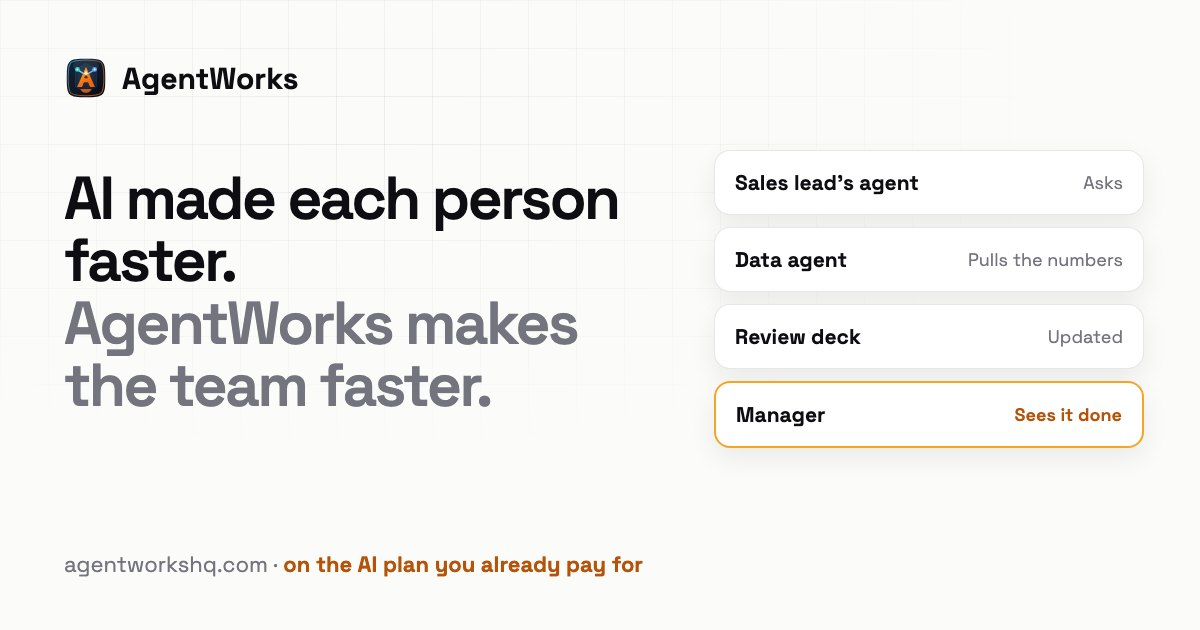
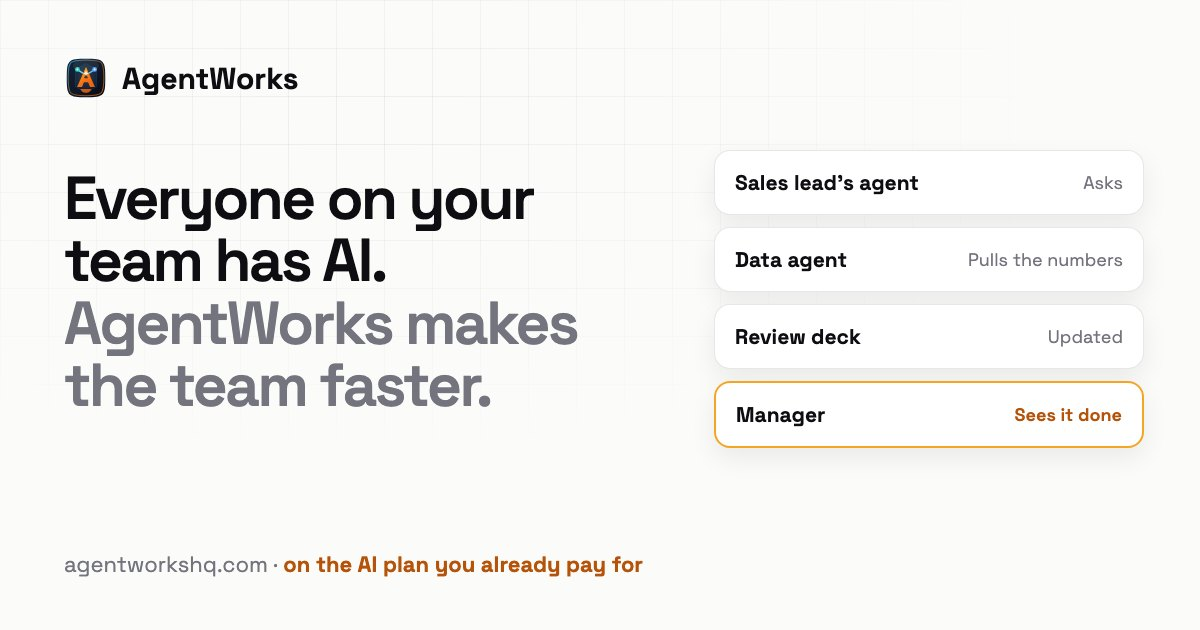
Homepage headline: Everyone on your team has AI
"AI made each person faster" is a claim readers can dispute; the new
first half states a plain fact and keeps "faster" for the team.
Updates the title, social image, problem heading and llms.txt to match.

Changed region(s): [[0.0308, 0.2714, 0.5242, 0.4524]]

diff --git a/index.html b/index.html
@@ -3,12 +3,12 @@
 <head>
   <meta charset="UTF-8">
   <meta name="viewport" content="width=device-width, initial-scale=1">
-  <title>AgentWorks - AI made each person faster. Make the team faster.</title>
+  <title>AgentWorks - Everyone on your team has AI. Make the team faster.</title>
   <meta name="description" content="Everyone's AI agents work together: anyone hands work to an agent, agents pass it on, and everyone sees where it stands. Keeps your tools; runs on your servers.">
   <meta name="theme-color" content="#fbfbf9">
   <meta name="color-scheme" content="light">
   <meta name="application-name" content="AgentWorks">
-  <meta property="og:title" content="AgentWorks - AI made each person faster. Make the team faster.">
+  <meta property="og:title" content="AgentWorks - Everyone on your team has AI. Make the team faster.">
   <meta property="og:description" content="Everyone's AI agents work together: anyone hands work to an agent, agents pass it on, and everyone sees where it stands. Keeps your tools; runs on your servers.">
   <meta property="og:url" content="https://agentworkshq.com/">
   <meta property="og:site_name" content="AgentWorks">
@@ -18,7 +18,7 @@
   <meta property="og:image:width" content="1200">
   <meta property="og:image:height" content="630">
   <meta name="twitter:card" content="summary_large_image">
-  <meta name="twitter:title" content="AgentWorks - AI made each person faster. Make the team faster.">
+  <meta name="twitter:title" content="AgentWorks - Everyone on your team has AI. Make the team faster.">
   <meta name="twitter:description" content="Everyone's AI agents work together: anyone hands work to an agent, agents pass it on, and everyone sees where it stands. Keeps your tools; runs on your servers.">
   <meta name="twitter:image" content="https://agentworkshq.com/assets/og/agentworks-home-og.jpg">
   <meta name="twitter:creator" content="@manish_iitg">
@@ -203,7 +203,7 @@
       <div class="hero-grid-bg" aria-hidden="true"></div>
       <div class="wrap">
         <p class="kicker">Works with the tools you already use</p>
-        <h1>AI made each person faster. <span class="dim">AgentWorks makes the team faster.</span></h1>
+        <h1>Everyone on your team has AI. <span class="dim">AgentWorks makes the team faster.</span></h1>
         <p class="lede">Everyone&rsquo;s AI agents work together: anyone can hand work to an agent, agents pass it on, and everyone sees where it stands.</p>
         <div class="hero-actions">
           <a class="btn btn-amber" href="https://calendar.google.com/calendar/appointments/schedules/AcZssZ1IrGuhEQLUL5dEFGm4OWRJvz5M0KOaizd2SH2-oadqBESndvBRGq8s1MF41uOI931Xu1NrhfZu" target="_blank" rel="noreferrer">Book a call</a>
@@ -287,7 +287,7 @@
       <div class="wrap">
         <div class="section-head reveal">
           <p class="kicker">The problem</p>
-          <h2>Everyone has their own AI. <span class="dim">The work between people still moves by hand.</span></h2>
+          <h2>Each person&rsquo;s AI works alone. <span class="dim">The work between people still moves by hand.</span></h2>
         </div>
         <ul class="control">
           <li class="reveal"><h3>Every chat starts from zero</h3><p>Each person explains the customer, the product and the task again in their own chat.</p></li>

diff --git a/scripts/launch/home.body.html b/scripts/launch/home.body.html
@@ -3,7 +3,7 @@
       <div class="hero-grid-bg" aria-hidden="true"></div>
       <div class="wrap">
         <p class="kicker">Works with the tools you already use</p>
-        <h1>AI made each person faster. <span class="dim">AgentWorks makes the team faster.</span></h1>
+        <h1>Everyone on your team has AI. <span class="dim">AgentWorks makes the team faster.</span></h1>
         <p class="lede">Everyone&rsquo;s AI agents work together: anyone can hand work to an agent, agents pass it on, and everyone sees where it stands.</p>
         <div class="hero-actions">
           <a class="btn btn-amber" href="{{SIGNUP}}" target="_blank" rel="noreferrer">Book a call</a>
@@ -87,7 +87,7 @@
       <div class="wrap">
         <div class="section-head reveal">
           <p class="kicker">The problem</p>
-          <h2>Everyone has their own AI. <span class="dim">The work between people still moves by hand.</span></h2>
+          <h2>Each person&rsquo;s AI works alone. <span class="dim">The work between people still moves by hand.</span></h2>
         </div>
         <ul class="control">
           <li class="reveal"><h3>Every chat starts from zero</h3><p>Each person explains the customer, the product and the task again in their own chat.</p></li>

diff --git a/scripts/verify-dist.js b/scripts/verify-dist.js
@@ -123,8 +123,8 @@ const pageExpectations = [
     name: 'home',
     file: 'index.html',
     route: '/index.html',
-    title: 'AgentWorks - AI made each person faster. Make the team faster.',
-    h1: 'AI made each person faster. AgentWorks makes the team faster.',
+    title: 'AgentWorks - Everyone on your team has AI. Make the team faster.',
+    h1: 'Everyone on your team has AI. AgentWorks makes the team faster.',
     canonical: 'https://agentworkshq.com/',
     ogImage: 'assets/og/agentworks-home-og.jpg',
     allowTallSections: true

diff --git a/scripts/launch/build.py b/scripts/launch/build.py
@@ -35,7 +35,7 @@ def sol_cards():
     by={u['slug']:u for u in SOLUTIONS}
     return '\n'.join(f'''          <a class="sol-card" href="/solutions/{k}/"><span class="sol-ic"><svg viewBox="0 0 24 24" fill="none" stroke="currentColor" stroke-width="1.8" stroke-linecap="round" stroke-linejoin="round" aria-hidden="true">{by[k]['icon']}</svg></span><b>{by[k]['nav']}</b><span>{by[k]['navdesc']}</span></a>''' for k in SOL_ORDER if k in by)
 body=open('home.body.html').read()
-pages['index.html']=head('AgentWorks - AI made each person faster. Make the team faster.','Everyone\'s AI agents work together: anyone hands work to an agent, agents pass it on, and everyone sees where it stands. Keeps your tools; runs on your servers.','/',extra_ld=ld(ORG,{"@type":"WebSite","@id":"https://agentworkshq.com/#website","name":"AgentWorks","url":"https://agentworkshq.com/"},SOFT,faq_ld(FAQ_HOME_TEAM)))+header()+fill(body,TEMPLATES=tpl('home'),AGENT_TOTAL=str(_T.N_CREW),AGENT_SPLIT=f'{_T.N_CREW} agents',TIERS=tiers(),FAQ=faq(FAQ_HOME_TEAM),SCRIPTED=scripted_section(),SOLCARDS=sol_cards())+footer()
+pages['index.html']=head('AgentWorks - Everyone on your team has AI. Make the team faster.','Everyone\'s AI agents work together: anyone hands work to an agent, agents pass it on, and everyone sees where it stands. Keeps your tools; runs on your servers.','/',extra_ld=ld(ORG,{"@type":"WebSite","@id":"https://agentworkshq.com/#website","name":"AgentWorks","url":"https://agentworkshq.com/"},SOFT,faq_ld(FAQ_HOME_TEAM)))+header()+fill(body,TEMPLATES=tpl('home'),AGENT_TOTAL=str(_T.N_CREW),AGENT_SPLIT=f'{_T.N_CREW} agents',TIERS=tiers(),FAQ=faq(FAQ_HOME_TEAM),SCRIPTED=scripted_section(),SOLCARDS=sol_cards())+footer()
 for name in ['pricing.py', 'enterprise.py', 'agents.py', 'product.py', 'goals.py', 'crews.py', 'studio.py', 'brain.py', 'download.py', 'about.py', 'relays.py', 'bullpen.py', 'llmgateway.py', 'usecases.py', 'solutions.py', 'legal.py', 'harness.py', 'platform.py', 'blog.py']:
     exec(open(name).read())
 for path,content in pages.items():

diff --git a/scripts/launch/og.py b/scripts/launch/og.py
@@ -4,7 +4,7 @@ ROOT=os.path.abspath(os.path.join(os.path.dirname(os.path.abspath(__file__)),'..
 _CAT=json.load(open(os.path.join(os.path.dirname(os.path.abspath(__file__)),'catalog.json')))
 N_AGENTS=len(_CAT['crew'])+len(_CAT['playbooks'])
 CARDS=[
- ('agentworks-home-og.jpg','AI made each person faster.','AgentWorks makes the team faster.','team'),
+ ('agentworks-home-og.jpg','Everyone on your team has AI.','AgentWorks makes the team faster.','team'),
  ('agentworks-product-og.jpg','One goal. One metric.','An agent that doesn’t stop at done.','loop'),
  ('agentworks-agents-og.jpg',f'{N_AGENTS} premade agents,','ready to start today.','agents'),
  ('agentworks-pricing-og.jpg','Built for your company.','Customized and deployed with you.','tiers'),
